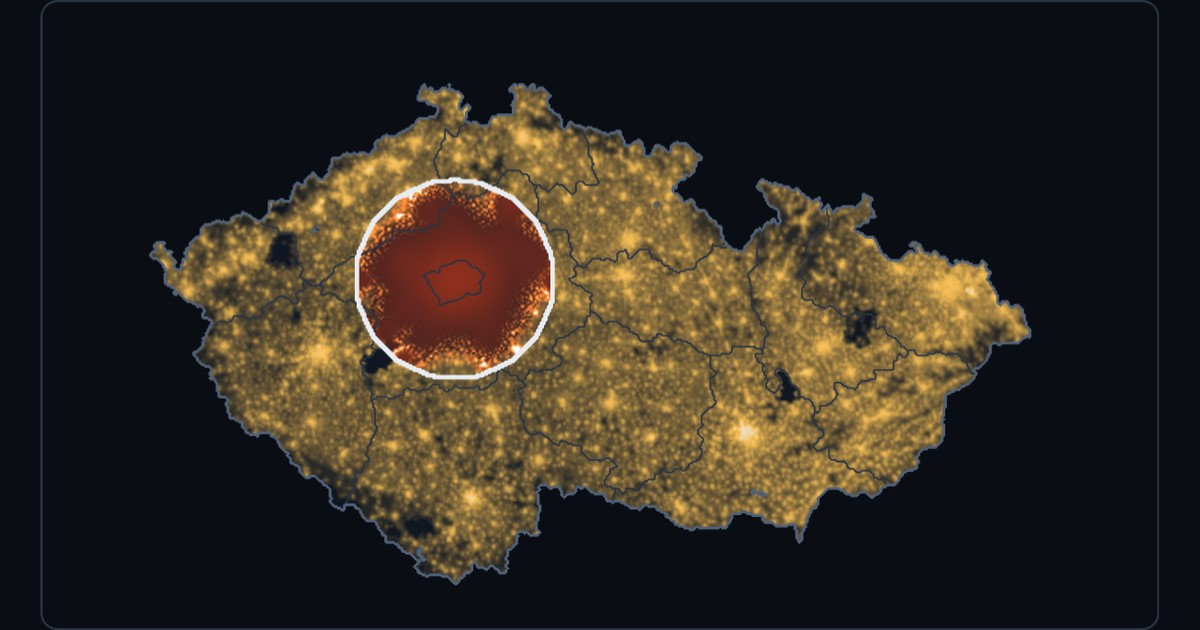
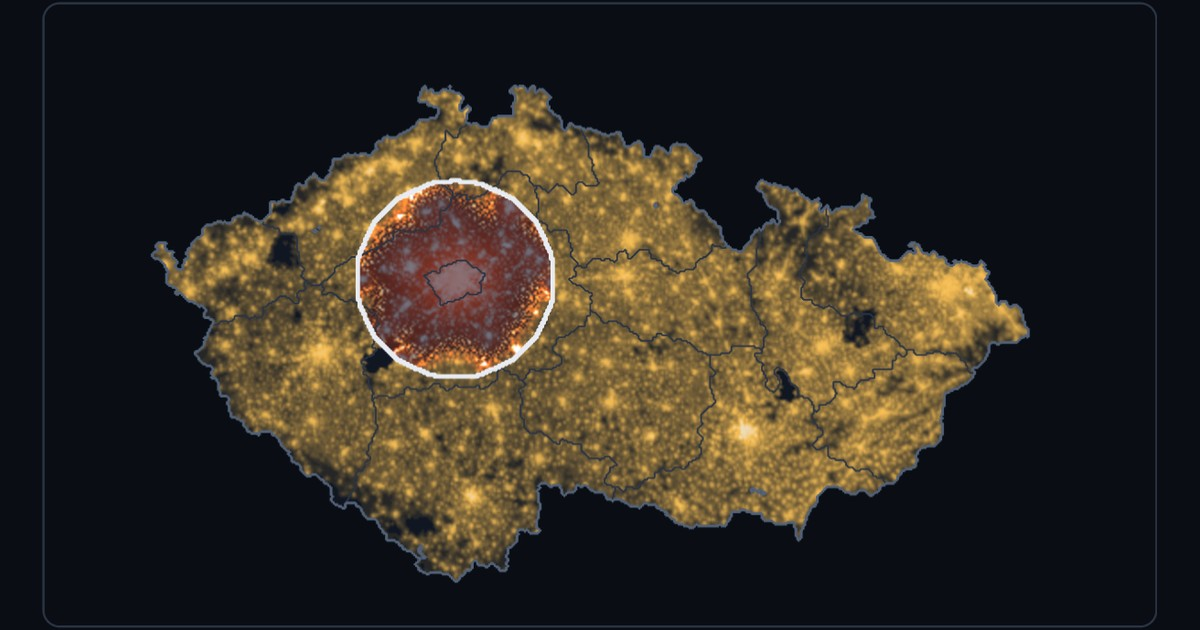
Stills in both themes
stills.py renders static.webp and thumb.webp in the light theme too,
as static-light.webp and thumb-light.webp (demo-kit 0.3.0), each on its
theme's page colour. og.jpg stays dark: link previews have no theme.
The stills keep the 16:9 stage and hide the detection notice. All five
re-rendered with the new colours.

diff --git a/scripts/stills.py b/scripts/stills.py
@@ -1,11 +1,14 @@
 """Renders the demo's still images from the built demo, in a real browser.
 
 - static.webp: the opening state (day 0), shown while the demo loads and without JavaScript.
-- thumb.webp and og.jpg: the default run (Munz et al. from Prague) with a ring of cordon drawn
+- thumb.webp and og.jpg: the default run (Munz et al. from Prague) with a ring of blockade drawn
   around Prague before detection, on CARD_DAY, for the project card and link previews.
+- static-light.webp and thumb-light.webp: the same in the light theme, which the site shows
+  under its light theme. og.jpg stays dark only: link previews have no theme.
 
 It serves demo/dist/ locally, drives it with Playwright, and writes the images to demo/public/,
-fitted onto the dark page colour and kept under the bundle contract's size limits. Build first:
+fitted onto their theme's page colour and kept under the bundle contract's size limits. Each still
+is of the map's stage alone, at 16:9. Build first:
 
     cd demo && npm run build && cd ..
     uv run --with playwright --with pillow python scripts/stills.py            # Microsoft Edge
@@ -29,17 +32,23 @@ from playwright.sync_api import sync_playwright
 ROOT = Path(__file__).resolve().parents[1]
 DIST = ROOT / "demo" / "dist"
 OUT = ROOT / "demo" / "public"
-BACKGROUND = (10, 14, 20)  # --color-bg, dark: the site's default theme
+THEMES = ("dark", "light")
+BACKGROUND = {"dark": (10, 14, 20), "light": (245, 246, 248)}  # --color-bg in each theme
 CARD_DAY = 30
-# The card's cordon: a ring around Prague, in cells (km), drawn before detection. It holds.
+# The card's blockade: a ring around Prague, in cells (km), drawn before detection. It holds.
 PRAGUE = (174, 139)
 RING = 55
 GRID = (511, 319)
 PADDING = 12  # the map's padding inside the stage, as in demo/src/render/map.js
-# A narrow page gets a 16:9 stage and no inset chart; this scale makes it about 1200 px wide.
+# A narrow page; this scale makes its stage about 1200 px wide.
 VIEWPORT = {"width": 540, "height": 1400}
 SCALE = 2.4
 READY = "/Day \\d+/.test(document.querySelector('.dk-status')?.textContent)"
+# The stage at 16:9, as the card shows it, and no detection notice over the map.
+STILL_STYLE = (
+    "[data-demo] .dk-stage { height: auto !important; aspect-ratio: 16 / 9 !important; }"
+    " [data-demo] .zo-notice { display: none !important; }"
+)
 
 
 class QuietHandler(SimpleHTTPRequestHandler):
@@ -54,11 +63,11 @@ def serve():
     return server
 
 
-def fit(png, width, height):
+def fit(png, width, height, theme):
     image = Image.open(io.BytesIO(png)).convert("RGB")
     scale = min(width / image.width, height / image.height)
     image = image.resize((round(image.width * scale), round(image.height * scale)), Image.LANCZOS)
-    canvas = Image.new("RGB", (width, height), BACKGROUND)
+    canvas = Image.new("RGB", (width, height), BACKGROUND[theme])
     canvas.paste(image, ((width - image.width) // 2, (height - image.height) // 2))
     return canvas
 
@@ -75,9 +84,27 @@ def save(image, name, fmt, limit, **options):
     print(f"{name}: {image.width}×{image.height}, quality {quality}, {buffer.tell() / 1000:.1f} KB")
 
 
+def open_page(browser, url, **options):
+    page = browser.new_page(viewport=VIEWPORT, device_scale_factor=SCALE, **options)
+    page.goto(url)
+    page.add_style_tag(content=STILL_STYLE)
+    page.wait_for_function(READY, timeout=30000)
+    return page
+
+
+def shoot(page):
+    """Screenshots the stage in each theme: {theme: png}."""
+    shots = {}
+    for theme in THEMES:
+        page.evaluate(f"document.documentElement.dataset.theme = '{theme}'")
+        page.wait_for_timeout(500)  # the worker repaints in the theme's colours
+        shots[theme] = page.locator(".dk-stage").screenshot()
+    return shots
+
+
 def draw_ring(page):
-    """Draws the card's cordon with the mouse: a closed ring of RING km around Prague."""
-    page.get_by_label("Draw cordon").check()
+    """Draws the card's blockade with the mouse: a closed ring of RING km around Prague."""
+    page.get_by_label("Draw blockade").check()
     stage = page.locator(".dk-stage-content")
     stage.scroll_into_view_if_needed()
     box = stage.bounding_box()
@@ -93,7 +120,7 @@ def draw_ring(page):
     for point in points[1:]:
         page.mouse.move(*point, steps=2)
     page.mouse.up()
-    page.get_by_label("Draw cordon").uncheck()
+    page.get_by_label("Draw blockade").uncheck()
     page.mouse.move(0, 0)
 
 
@@ -107,16 +134,12 @@ def main():
         browser = p.chromium.launch(channel=channel)
 
         # The opening state: with reduced motion, the demo starts paused on day 0.
-        page = browser.new_page(viewport=VIEWPORT, device_scale_factor=SCALE, reduced_motion="reduce")
-        page.goto(url)
-        page.wait_for_function(READY, timeout=30000)
-        opening = page.locator(".dk-stage").screenshot()
+        page = open_page(browser, url, reduced_motion="reduce")
+        opening = shoot(page)
         page.close()
 
         # The card: the default run with a ring around Prague, on CARD_DAY, paused there.
-        page = browser.new_page(viewport=VIEWPORT, device_scale_factor=SCALE)
-        page.goto(url)
-        page.wait_for_function(READY, timeout=30000)
+        page = open_page(browser, url)
         page.get_by_role("button", name="Pause").click()
         draw_ring(page)
         page.get_by_role("button", name="Play").click()
@@ -128,14 +151,16 @@ def main():
         page.get_by_role("button", name="Pause").click()
         page.wait_for_timeout(300)
         status = page.locator(".dk-status").text_content()
-        card = page.locator(".dk-stage").screenshot()
+        card = shoot(page)
         browser.close()
     server.shutdown()
 
     print(f"card: {re.sub(r'\\s+', ' ', status)}")
-    save(fit(opening, 1200, 675), "static.webp", "WEBP", None, method=6)
-    save(fit(card, 1200, 675), "thumb.webp", "WEBP", 80_000, method=6)
-    save(fit(card, 1200, 630), "og.jpg", "JPEG", 150_000, optimize=True, progressive=True)
+    for theme in THEMES:
+        suffix = "" if theme == "dark" else "-light"
+        save(fit(opening[theme], 1200, 675, theme), f"static{suffix}.webp", "WEBP", None, method=6)
+        save(fit(card[theme], 1200, 675, theme), f"thumb{suffix}.webp", "WEBP", 80_000, method=6)
+    save(fit(card["dark"], 1200, 630, "dark"), "og.jpg", "JPEG", 150_000, optimize=True, progressive=True)
 
 
 if __name__ == "__main__":
